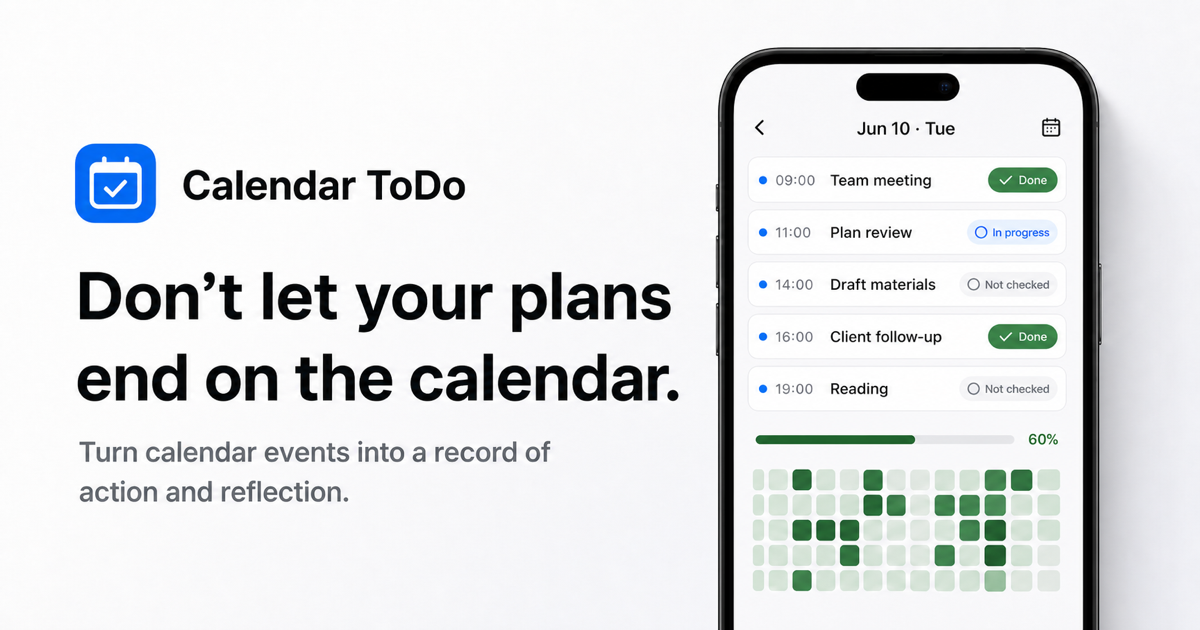
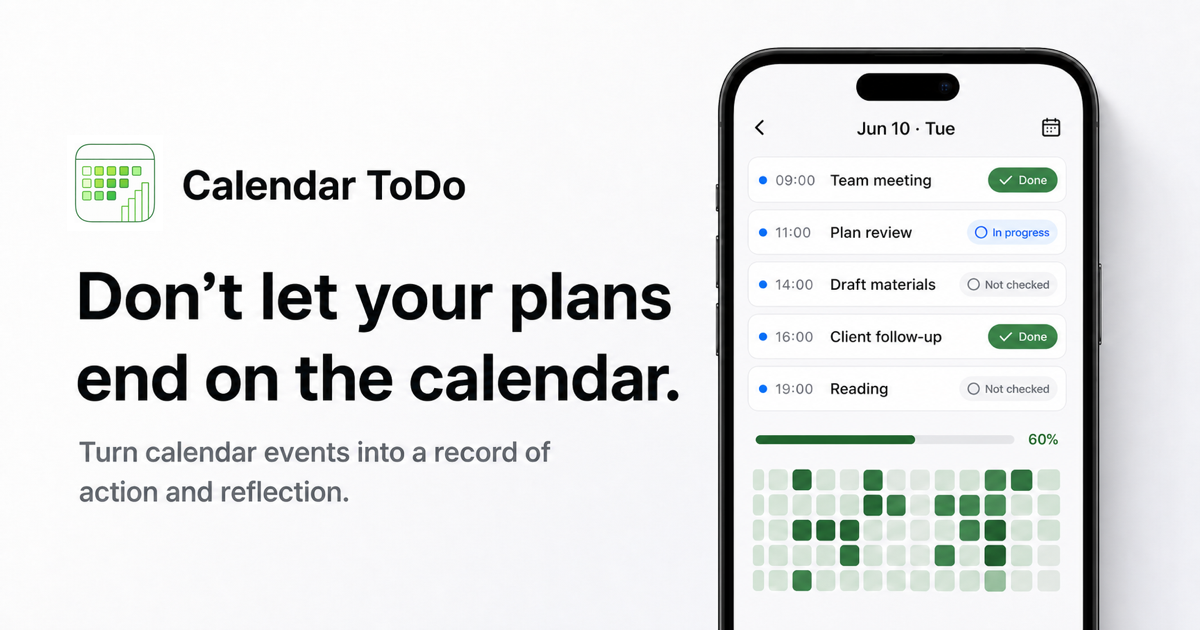
feat: App Storeリンクと公式アイコンを更新

Changed region(s): [[0.0617, 0.2111, 0.1542, 0.3619]]

diff --git a/src/config/site.ts b/src/config/site.ts
@@ -13,8 +13,7 @@ export const OG_IMAGE_PATHS = {
   en: '/og/en.png',
 } as const satisfies Record<Locale, string>;
 
-// TODO: App Storeでの公開後、Calendar ToDoのアプリ固有URLへ差し替える。
 export const APP_STORE_URLS = {
-  ja: 'https://apps.apple.com/jp/search?term=Calendar%20ToDo',
-  en: 'https://apps.apple.com/us/search?term=Calendar%20ToDo',
+  ja: 'https://apps.apple.com/jp/app/calendar-todo/id6756511434',
+  en: 'https://apps.apple.com/us/app/calendar-todo/id6756511434',
 } as const satisfies Record<Locale, string>;

diff --git a/src/i18n/home/ja.ts b/src/i18n/home/ja.ts
@@ -22,9 +22,9 @@ export const jaHome = {
   },
   store: {
     compactLabel: 'App Store',
-    buttonLabel: 'App Storeで探す',
-    ariaLabel: 'App StoreでCalendar ToDoを検索（新しいタブで開く）',
-    note: '正式なアプリページへのリンクは準備中です。',
+    buttonLabel: 'App Storeで見る',
+    ariaLabel: 'App StoreでCalendar ToDoを見る（新しいタブで開く）',
+    note: 'iPhoneでご利用いただけます。',
   },
   hero: {
     eyebrow: 'Calendar ToDo for iPhone',

diff --git a/src/i18n/home/en.ts b/src/i18n/home/en.ts
@@ -22,9 +22,9 @@ export const enHome = {
   },
   store: {
     compactLabel: 'App Store',
-    buttonLabel: 'Find on the App Store',
-    ariaLabel: 'Search for Calendar ToDo on the App Store (opens in a new tab)',
-    note: 'The link will be updated when the official app page is available.',
+    buttonLabel: 'View on the App Store',
+    ariaLabel: 'View Calendar ToDo on the App Store (opens in a new tab)',
+    note: 'Available for iPhone.',
   },
   hero: {
     eyebrow: 'Calendar ToDo for iPhone',

diff --git a/README.md b/README.md
@@ -31,6 +31,7 @@ npm run build
 - `src/components`: 日英で共有するページ・サイト部品
 - `src/i18n`: 型付きの日本語・英語コンテンツ
 - `src/assets/screenshots`: Webサイトで使用する言語別の実画面
+- `assets/branding`: アプリアイコンなどのブランド原本（サイトのビルド対象外）
 - `assets/marketing/app-store`: App Store用に加工した原寸素材（サイトのビルド対象外）
 - `public/og`: 言語別のOpen Graph画像
 
@@ -42,4 +43,4 @@ npm run build
 - Root directory: `/`
 - Node.js version: `24.18.0`
 
-App Storeの正式URLが確定したら、`src/config/site.ts`の`APP_STORE_URLS`を地域に依存しないアプリ固有URLへ更新してください。
+App Storeの地域別URLは、`src/config/site.ts`の`APP_STORE_URLS`で管理しています。
